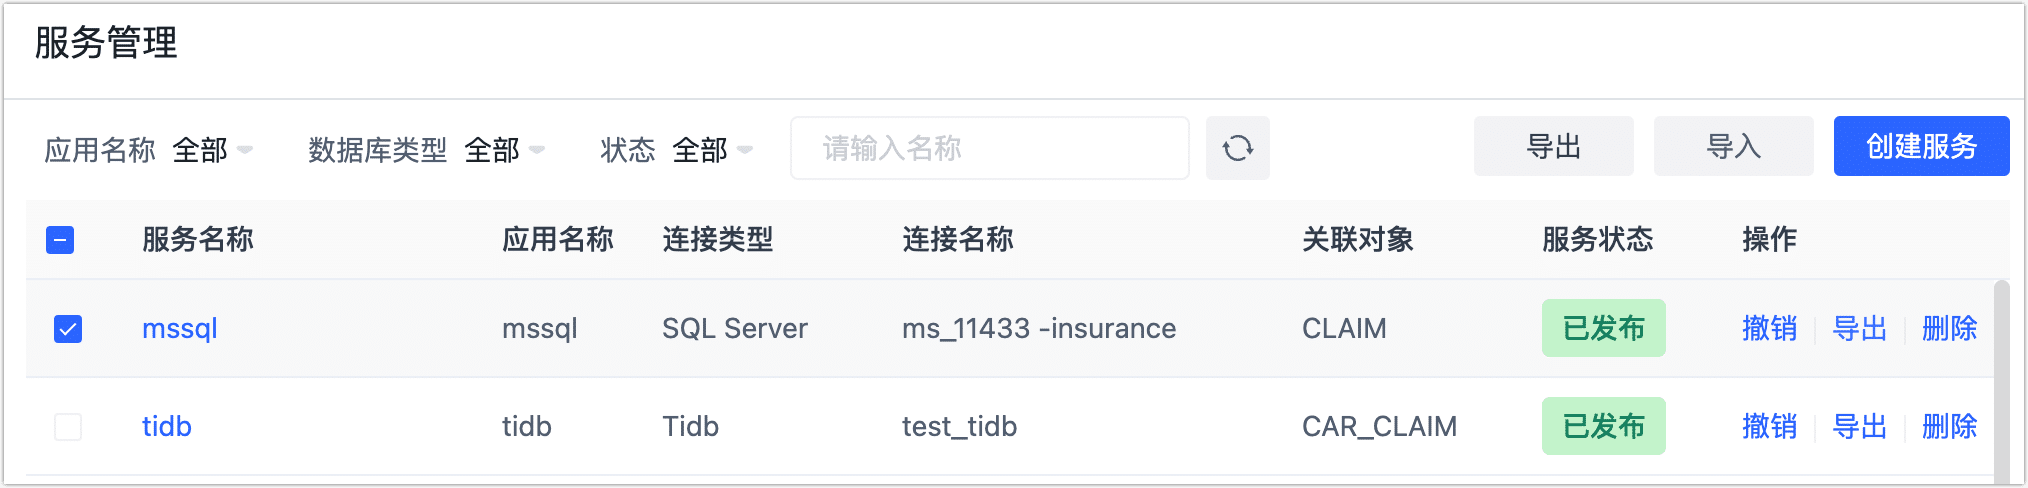
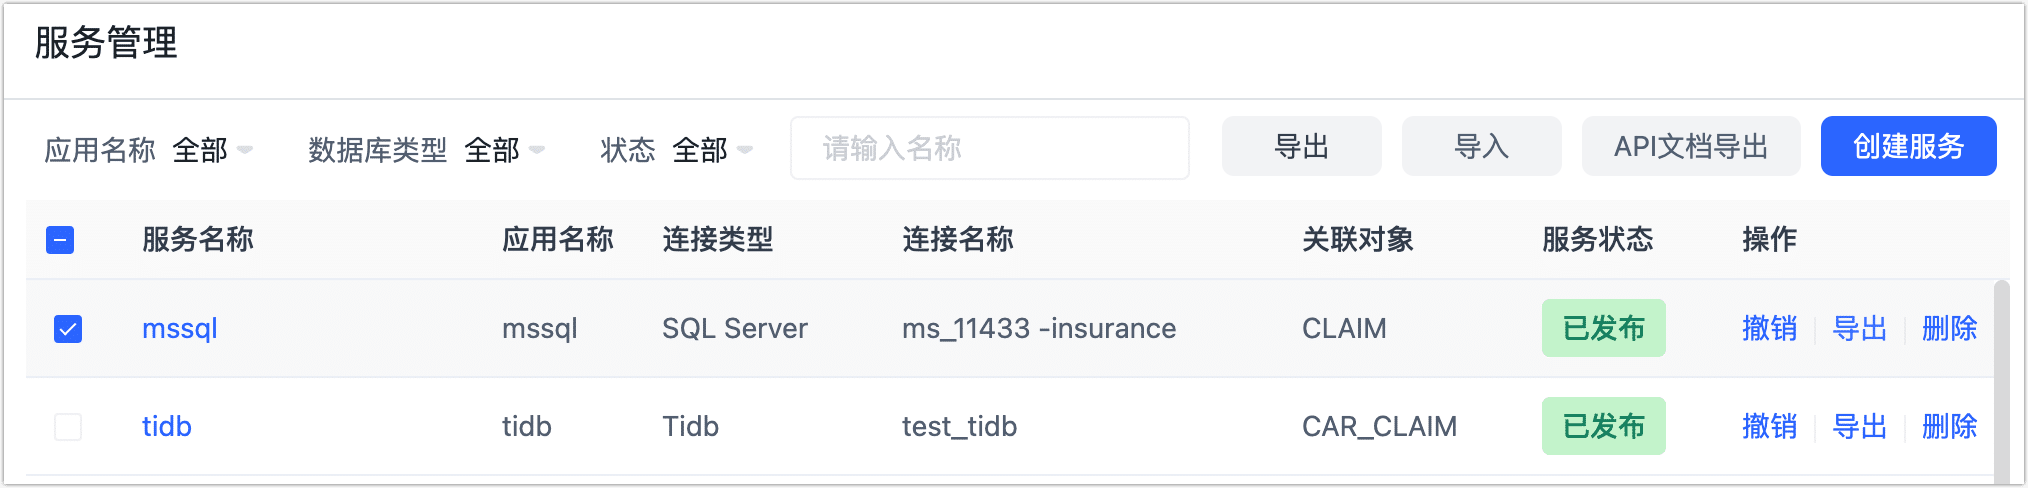
Release V3.3

Changed region(s): [[0.7145, 0.2459, 0.9941, 0.3689], [0.5902, 0.2766, 0.6524, 0.3381]]

diff --git a/docs/enterprise/user-guide/data-pipeline/verify-data.md b/docs/enterprise/user-guide/data-pipeline/verify-data.md
@@ -31,7 +31,7 @@ import TabItem from '@theme/TabItem';
               </ul>
           <li><b>校验频次</b>：默认为<b>单次校验</b>，如选择为<b>重复校验</b>，您还需要设置校验执行的起止时间和任务间隔时间。</li>
           <li><b>错误保存条数</b>：即不一致数据保存的最大条数，默认为 100，最大为 10000，推荐设置较大的值以确保记录的完整性。</li>
-          <li><b>校验条件</b>：推荐选择<b>自动添加表</b>，即由 Tapdata 自动加载数据复制/开发任务中的源/目标数据表，此外，您也可以手动添加表、设置高级校验并添加 JS 校验逻辑。</li>
+          <li><b>校验条件</b>：推荐选择<b>自动添加表</b>，即由 Tapdata 自动加载数据复制/开发任务中的源/目标数据表。同时，您还可以打开<b>数据过滤</b>开关，从而只对特定条件的数据进行校验以减少校验规模。此外，您还可以通过高级校验添加 JS 校验逻辑。<img src='/img/check_and_filter_data.png'></img></li>
         </ul>
         </ul>
    </TabItem>
@@ -49,7 +49,7 @@ import TabItem from '@theme/TabItem';
               </ul>
           <li><b>校验频次</b>：默认为<b>单次校验</b>，如选择为<b>重复校验</b>，您还需要设置校验执行的起止时间和任务间隔时间。</li>
           <li><b>错误保存条数</b>：即不一致数据保存的最大条数，默认为 100，最大为 10000，推荐设置较大的值以确保记录的完整性。</li>
-          <li><b>校验条件</b>：单击 <img src='https://docs.tapdata.io/img/modify.png'></img> 图标，手动指定待校验的校验源/目标数据连接、待校验的表、索引字段、待校验模型，此外，您还可以通过高级校验添加 JS 校验逻辑。<p>如需校验多个表，可单击<b>添加表</b>继续添加校验条件。</p></li>
+          <li><b>校验条件</b>：单击 <img src='https://docs.tapdata.io/img/modify.png'></img> 图标，手动指定待校验的校验源/目标数据连接、待校验的表、索引字段、待校验模型，同时，您还可以打开<b>数据过滤</b>开关，从而只对特定条件的数据进行校验以减少校验规模。此外，您还可以通过高级校验添加 JS 校验逻辑。<p>如需校验多个表，可单击<b>添加表</b>继续添加校验条件。<img src='/img/check_and_filter_data.png'></img> </p></li>
         </ul>
         </ul>
    </TabItem>

diff --git a/docs/enterprise/release-notes.md b/docs/enterprise/release-notes.md
@@ -2,6 +2,37 @@
 
 本文介绍 V3.x 的版本更新日志，早期版本请参见 [V2.x 版本更新日志](https://docs.tapdata.net/2.0/enterprise/release-notes)。
 
+
+
+## V3.3
+
+### 新增功能
+
+- [Kafka 数据源](prerequisites/certified/kafka.md)支持自定义消息体格式
+- 新增 [API 接口文档导出功能](user-guide/data-service/create-api-service#release330-export-api)，帮助团队快速建立并完善 API 使用资料
+- 共享挖掘功能支持[配置任务告警](user-guide/advanced-settings/share-mining#release330-alert)，可通过系统通知消息或邮件来发出告警信息，帮助更好地掌握任务的运行状态
+- [数据校验功能](user-guide/data-pipeline/verify-data.md)，支持设置数据过滤，从而实现只对特定条件的数据进行校验，可帮助您减少校验规模，提升效率
+- 在数据服务平台模式下，向平台缓存层拖拽数据表生成任务时，支持[设置任务的同步类型为全量或增量](user-guide/data-console/daas-mode/create-daas-task/#release330-task)
+
+### 功能优化
+
+- [支持滚动升级](faq/operation#release330-upgrade)，相较于停机升级方式，可进一步降低业务影响
+- [共享挖掘任务](user-guide/advanced-settings/share-mining.md)报错后，关联任务增加告警提示
+- 在[行过滤器处理节点](user-guide/data-pipeline/data-development/process-node.md)中，使用 DATE 类型过滤时，增加使用示例
+- [时间运算节点](user-guide/data-pipeline/data-development/process-node#date-calculation)，支持展示调整的字段
+- 全量完成剩余时间算法优化
+- 字段处理节点支持针对配置的一键复制和粘贴
+
+### 问题修复
+
+- 启动TM时如果没配置 java 环境变量，会导致启动不了，此时添加了针对该问题的日志输出
+- 修复了 admin 用户，在个人中心修改用户名后，所有菜单都不能查看的问题
+- 修复了数据复制/数据转换创建任务时，所有数据源都不支持 DDL 的问题
+- 修复了数据复制任务，配置表编辑节点时，添加前后缀输入一个字符加载一次的问题
+- 外存类型为 MongoDB 时，将其密码加密存储提升安全性
+
+
+
 ## V3.2
 
 ### 新增功能

diff --git a/docs/enterprise/user-guide/data-console/daas-mode/create-daas-task.md b/docs/enterprise/user-guide/data-console/daas-mode/create-daas-task.md
@@ -18,7 +18,7 @@
 
    :::
 
-4. 跟随下述流程，一键完成数据流转。
+4. 跟随下述流程，<span id="release330-task">一键完成数据流转</span>。
 
    :::tip
    通过平台加工层，您可以对表进行表结构调整（如增加字段）、合并表、构建宽表等操作，如果缓存层的表已经满足您的业务需求，则无需使用平台加工层，您可以直接发布 API 或将缓存层的表拖动至**数据目标和服务层**。
@@ -32,9 +32,9 @@ import TabItem from '@theme/TabItem';
     <ol>
     <li>在<b>源数据层</b>，单击<img src='/img/search_icon.png'></img>图标，找到您需要同步的表，将其拖动至<b>平台缓存层</b>。</li>
     <p></p>
-    <li>在弹出的对话框中，填写表前缀并单击<b>确定</b>，本案例中，我们要同步的表为 <b>customer</b>，此处填写前缀为 <b>MySQL</b>，那么在平台缓存层中，该表名为 <b>FDM_MySQL_customer</b>。</li>
+    <li>在弹出的对话框中，填写表前缀、选择数据同步方式（全量或增量）并单击<b>确定</b>。</li>
     <img src='/img/create_cache_task.gif'></img>
-    <p>完成操作后，Tapdata 将自动创建一个数据复制任务，将您选择表（含全量数据）实时同步至平台缓存层并自动校验，您可以单击平台缓存中表名右侧的<img src='/img/detail_icon.png'></img>图标，跳转至任务监控页面来查看任务运行详情。</p>
+    <p>选择<b>保存并运行</b>后，Tapdata 将自动创建一个数据复制任务，将您选择表实时同步至平台缓存层并自动校验，您可以单击平台缓存中表名右侧的<img src='/img/detail_icon.png'></img>图标，跳转至任务监控页面来查看任务运行详情。</p>
     </ol>
    </TabItem>
    <TabItem value="curated" label="流转至平台加工层">

diff --git a/docs/enterprise/faq/operation.md b/docs/enterprise/faq/operation.md
@@ -39,6 +39,44 @@ Subsystem:
 
 
 
+## <span id="release330-upgrade">如何执行滚动升级？</span>
+
+从 3.3.0 版本开始，Tapdata 支持滚动升级功能，相较于普通的停机升级方式，可帮助您缩短升级时间窗口，进一步降低业务影响，具体步骤如下：
+
+:::tip
+
+要求升级前后两个版本相兼容，同时推荐任务进入增量阶段或在业务低峰期执行。
+
+:::
+
+1. 登录 Tapdata 所属的服务器，保持原版本的 Tapdata 服务处于运行中。
+
+2. 下载并解压 3.3.0 版本安装包，然后进入安装包目录中。
+
+3. 执行下述格式的命令，完成滚动升级流程，升级完成后将提升 `Update finished. All Task are running.`。
+
+   ```bash
+   ./tapdata upgrade --source <old_version_path>
+   ```
+
+   old_version_path：老版本 Tapdata 所安装的目录，示例如下：
+
+   ```bash
+   ./tapdata upgrade --source /root/320/tapdata/
+   ```
+
+   :::tip
+
+   如果升级过程中遇到错误后，再次执行升级命令，可以接续上次升级过程，如需重置升级状态命令，可执行`./tapdata upgrade reset`。
+
+   :::
+
+4. 升级完毕后，登录 Tapdata 平台，单击右上角的用户名并选择系统版本确认已升级成功。
+
+5. 在 Tapdata 平台左侧导航栏，选择**系统管理** > **集群管理**，确认服务都已正常运行。
+
+   ![查看服务状态](../images/upgrade_check_server.png)
+
 
 
 ## 如何查看运行日志？

diff --git a/docs/enterprise/user-guide/advanced-settings/share-mining.md b/docs/enterprise/user-guide/advanced-settings/share-mining.md
@@ -38,9 +38,12 @@
 
   ![](../../images/shared_mining_detail.png)
 
-* 
-  <span id="release310-share-mining">启停指定表的挖掘任务</span>：单击挖掘任务对应的**监控**，然后单击源节点，在页面右侧的面板中可查看到共享挖掘所涉及的表、挖掘的数量等信息，如下图所示。
+* **配置任务告警**：单击挖掘任务对应**监控**，单击页面右上角的设置，在右侧弹出的面板中<span id="release330-alert">配置任务告警</span>，可通过系统通知消息或邮件来发出告警信息，帮助更好地掌握任务的运行状态。
 
+  ![配置任务告警](../../images/share_mining_alert_settings.png)
+
+* <span id="release310-share-mining">启停指定表的挖掘任务</span>：单击挖掘任务对应的<b>监控</b>，然后单击源节点，在页面右侧的面板中可查看到共享挖掘所涉及的表、挖掘的数量等信息，如下图所示。
+  
   ![挖掘表信息](../../images/shared_mining_detail_2.png)
   
   当遇到某个表因大事务而引发增量事件获取异常时，您可以在此页面选中相关的表并单击**停止挖掘**，在弹出的对话框中确认影响范围后单击**确定**。

diff --git a/docs/enterprise/user-guide/data-service/create-api-service.md b/docs/enterprise/user-guide/data-service/create-api-service.md
@@ -36,8 +36,12 @@
 
    ![调试 API](../../images/try_query_api.png)
 
-7. （可选）对于以创建的数据服务，您可以将其选中并导出备份或分享给其他团队成本，您也可以导入数据服务。
+7. （可选）对于已创建的数据服务，您可以将其<span id="release330-export-api">选中并导出</span>备份或分享给其他团队成员，您也可以导入数据服务。
 
    ![导入/导出 API 服务](../../images/import_export_api.png)
+
+   除此以外，对于已发布的数据服务，您还可以将其选中并单击 **API 文档导出**，可在团队内部快速建立 API 的使用资料，导出的 Word 文件为 docx 格式，包含数据服务名称、API 描述、GET/POST 的参数说明和使用示例等信息，具体如下图所示。
+
+   ![API 文档示例](../../images/export_api_docx.png)
 
    

diff --git a/docs/enterprise/user-guide/data-pipeline/data-development/process-node.md b/docs/enterprise/user-guide/data-pipeline/data-development/process-node.md
@@ -197,7 +197,7 @@ mysql> select * from student_merge;
 
 
 
-## <span id="time-calculation">时间运算</span>
+## <span id="date-calculation">时间运算</span>
 
 某些场景下，数据处理的源库和目标库的时区不同，此时对日期/时间类型的字段进行运算处理，例如增加几个小时或减少几个小时从而实现时间调整，方便后续业务处理。此场景下，可以通过时间运算节点完成该需求。
 
